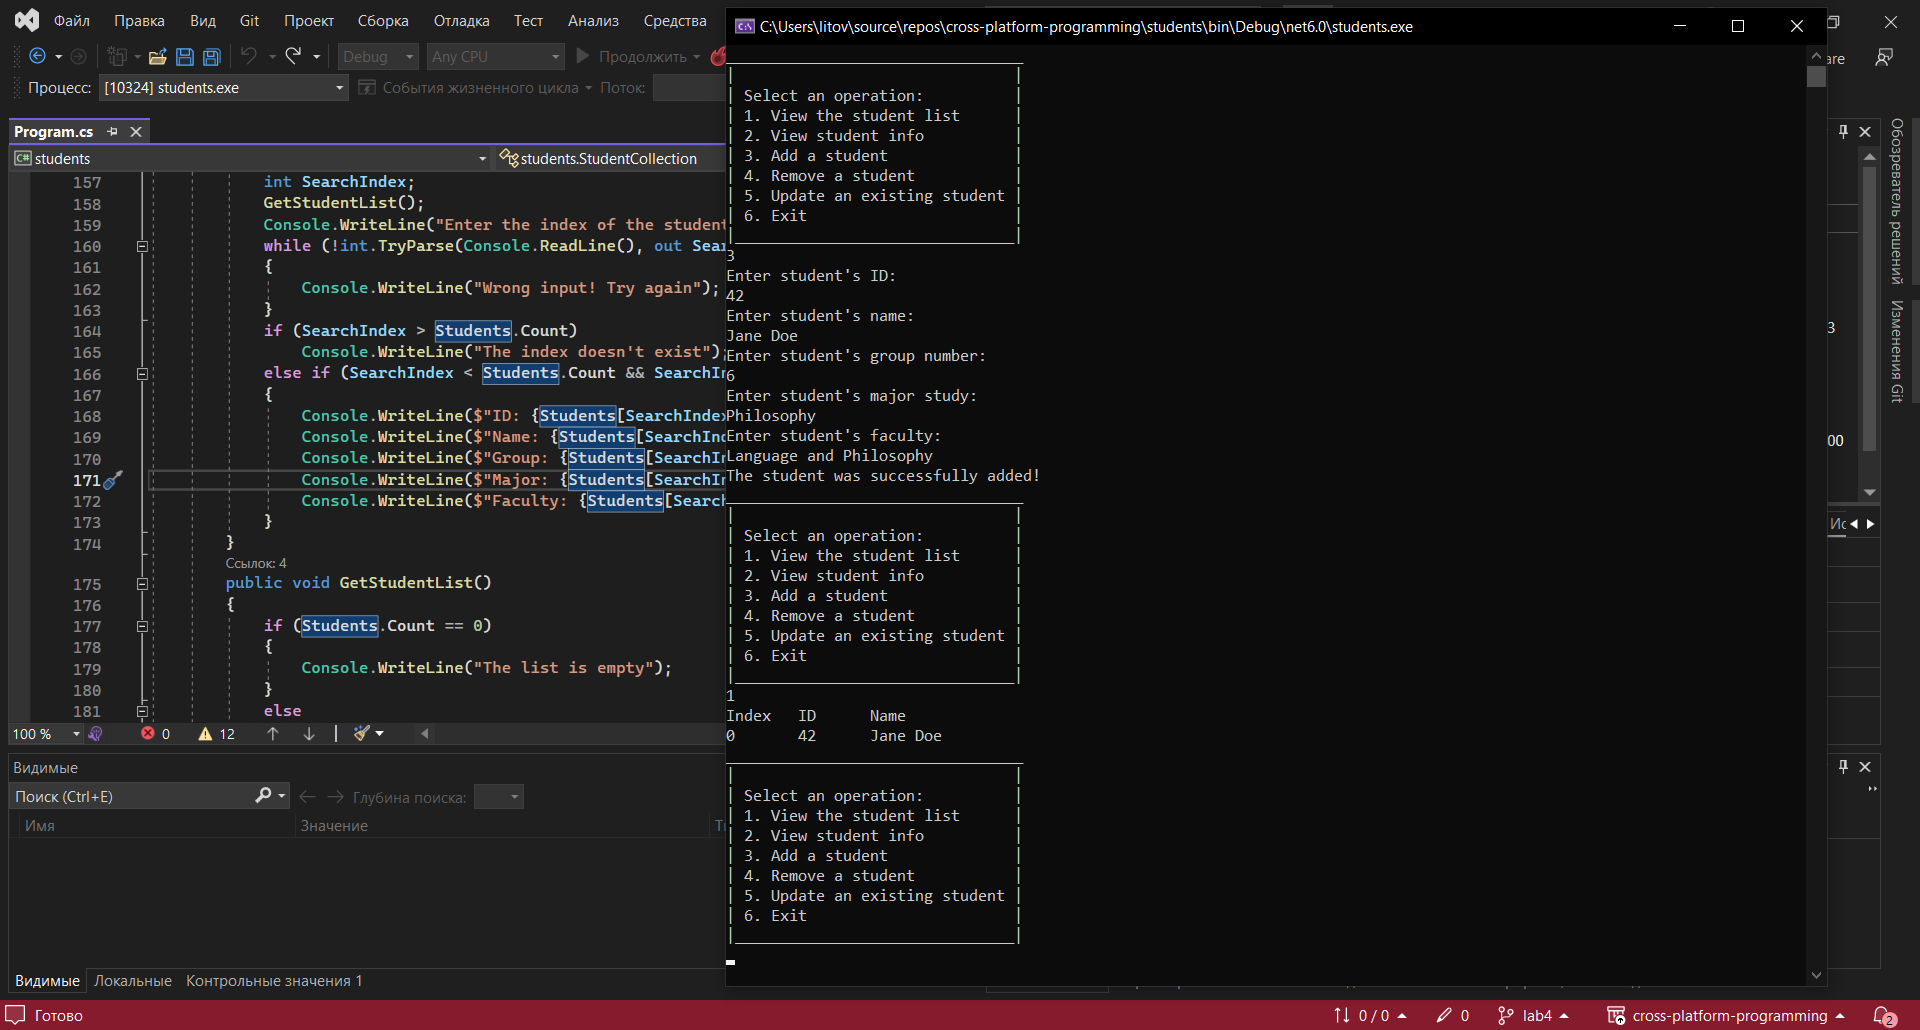
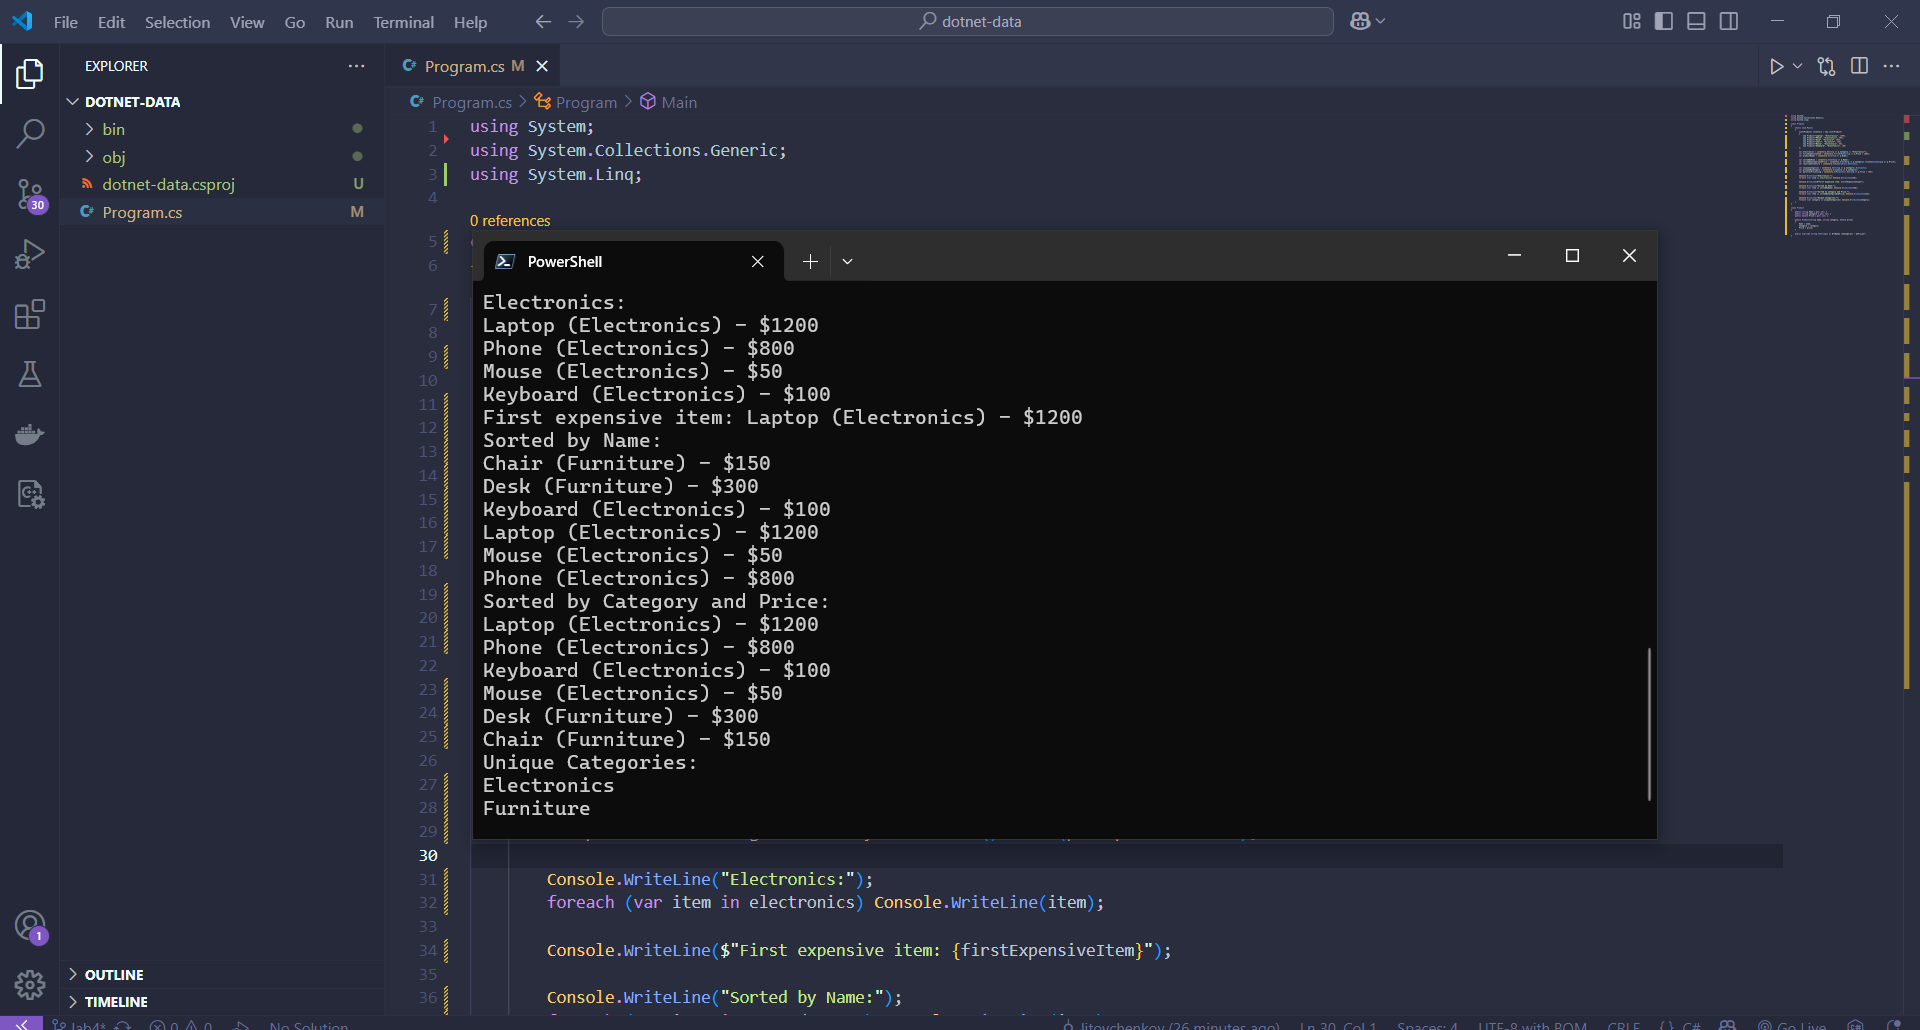
lab5

diff --git a/Program.cs b/Program.cs
@@ -1,257 +1,61 @@
 using System;
-using System.Collections;
 using System.Collections.Generic;
+using System.Linq;
 
-namespace students
+class Program
 {
-    public class StudentCollection
+    static void Main()
     {
-        class Student
+        List<Product> inventory = new List<Product>
         {
-            public int StudentID { get; set; }
-            public string StudentName { get; set; }
-            public int StudentGroup { get; set; }
-            public string StudentMajor { get; set; }
-            public string StudentFaculty { get; set; }
-            public Student()
-            {
-                StudentID = 0;
-                StudentName = string.Empty;
-                StudentGroup = 0;
-                StudentMajor = string.Empty;
-                StudentFaculty = string.Empty;
-            }
-        }
+            new Product("Laptop", "Electronics", 1200),
+            new Product("Phone", "Electronics", 800),
+            new Product("Desk", "Furniture", 300),
+            new Product("Chair", "Furniture", 150),
+            new Product("Mouse", "Electronics", 50),
+            new Product("Keyboard", "Electronics", 100)
+        };
 
-        private List<Student> Students = new List<Student>();
+        var electronics = inventory.Where(p => p.Category == "Electronics");
+        var firstExpensiveItem = inventory.FirstOrDefault(p => p.Price > 1000);
+        var productNames = inventory.Select(p => p.Name);
 
-        public void AddStudent()
-        {
-            int InputID = default,
-                InputGroup = default;
-            string InputName = string.Empty,
-                   InputMajor = string.Empty,
-                   InputFaculty = string.Empty;
-            Console.WriteLine("Enter student's ID: ");
-            while (!int.TryParse(Console.ReadLine(), out InputID))
-            {
-                Console.WriteLine("Wrong input! Try again");
-            }
-            Console.WriteLine("Enter student's name: ");
-            InputName = Console.ReadLine();
-            Console.WriteLine("Enter student's group number: ");
-            while (!int.TryParse(Console.ReadLine(), out InputGroup))
-            {
-                Console.WriteLine("Wrong input! Try again");
-            }
-            Console.WriteLine("Enter student's major study: ");
-            InputMajor = Console.ReadLine();
-            Console.WriteLine("Enter student's faculty: ");
-            InputFaculty = Console.ReadLine();
+        var sortedByName = inventory.OrderBy(p => p.Name);
+        var sortedByCategoryAndPrice = inventory.OrderBy(p => p.Category).ThenByDescending(p => p.Price);
+        var reversedInventory = inventory.AsEnumerable().Reverse();
 
-            Students.Add(new Student()
-            {
-                StudentID = InputID,
-                StudentName = InputName,
-                StudentGroup = InputGroup,
-                StudentMajor = InputMajor,
-                StudentFaculty = InputFaculty
-            });
-            Console.WriteLine("The student was successfully added!");
-        }
-        public void RemoveStudent()
-        {
-            int SearchIndex;
-            GetStudentList();
-            Console.WriteLine("Enter the index of the student you want to remove: ");
-            while (!int.TryParse(Console.ReadLine(), out SearchIndex))
-            {
-                Console.WriteLine("Wrong input! Try again");
-            }
-            if (SearchIndex > Students.Count)
-                Console.WriteLine("The index doesn't exist");
-            else if (SearchIndex < Students.Count && SearchIndex >= 0)
-            {
-                Students.RemoveAt(SearchIndex);
-                Console.WriteLine("The student was successfully removed!");
-            }
-        }
-        public void UpdateStudent()
-        {
-            int SearchIndex,
-                InputID = default,
-                InputGroup = default;
-            string InputName = string.Empty,
-                   InputMajor = string.Empty,
-                   InputFaculty = string.Empty;
+        var uniqueCategories = inventory.Select(p => p.Category).Distinct();
+        var groupedByCategory = inventory.GroupBy(p => p.Category);
+        var parallelProcessing = inventory.AsParallel().Where(p => p.Price > 100);
 
-            GetStudentList();
-            Console.WriteLine("Enter the index of the student you want to update: ");
-            while (!int.TryParse(Console.ReadLine(), out SearchIndex))
-            {
-                Console.WriteLine("Wrong input! Try again");
-            }
-            if (SearchIndex > Students.Count)
-                Console.WriteLine("The index doesn't exist");
-            else if (SearchIndex < Students.Count && SearchIndex >= 0)
-            {
-                int MenuOption;
-                Console.WriteLine("Select an item to change:");
-                Console.WriteLine("1. Student's ID");
-                Console.WriteLine("2. Student's name");
-                Console.WriteLine("3. Student's group");
-                Console.WriteLine("4. Student's major study");
-                Console.WriteLine("5. Student's group");
-                Console.WriteLine("6. Return to main menu");
-                while (!int.TryParse(Console.ReadLine(), out MenuOption))
-                {
-                    Console.WriteLine("Wrong input!");
-                }
-                switch (MenuOption)
-                {
-                    case 1:
-                        Console.WriteLine("Enter student's ID: ");
-                        while (!int.TryParse(Console.ReadLine(), out InputID))
-                        {
-                            Console.WriteLine("Wrong input! Try again");
-                        }
-                        Students[SearchIndex].StudentID = InputID;
-                        Console.WriteLine("The student's data was successfully updated!");
-                        break;
-                    case 2:
-                        Console.WriteLine("Enter student's name: ");
-                        InputName = Console.ReadLine();
-                        Students[SearchIndex].StudentName = InputName;
-                        Console.WriteLine("The student's data was successfully updated!");
-                        break;
-                    case 3:
-                        Console.WriteLine("Enter student's group number: ");
-                        while (!int.TryParse(Console.ReadLine(), out InputGroup))
-                        {
-                            Console.WriteLine("Wrong input! Try again");
-                        }
-                        Students[SearchIndex].StudentGroup = InputGroup;
-                        Console.WriteLine("The student's data was successfully updated!");
-                        break;
-                    case 4:
-                        Console.WriteLine("Enter student's major study: ");
-                        InputMajor = Console.ReadLine();
-                        Students[SearchIndex].StudentMajor = InputMajor;
-                        Console.WriteLine("The student's data was successfully updated!");
-                        break;
-                    case 5:
-                        Console.WriteLine("Enter student's faculty: ");
-                        InputFaculty = Console.ReadLine();
-                        Students[SearchIndex].StudentFaculty = InputFaculty;
-                        Console.WriteLine("The student's data was successfully updated!");
-                        break;
-                    case 6:
-                        break;
-                    default:
-                        break;
-                }
-            }
-        }
-        public void GetStudentData()
-        {
-            int SearchIndex;
-            GetStudentList();
-            Console.WriteLine("Enter the index of the student you want to see: ");
-            while (!int.TryParse(Console.ReadLine(), out SearchIndex))
-            {
-                Console.WriteLine("Wrong input! Try again");
-            }
-            if (SearchIndex > Students.Count)
-                Console.WriteLine("The index doesn't exist");
-            else if (SearchIndex < Students.Count && SearchIndex >= 0)
-            {
-                Console.WriteLine($"ID: {Students[SearchIndex].StudentID}");
-                Console.WriteLine($"Name: {Students[SearchIndex].StudentName}");
-                Console.WriteLine($"Group: {Students[SearchIndex].StudentGroup}");
-                Console.WriteLine($"Major: {Students[SearchIndex].StudentMajor}");
-                Console.WriteLine($"Faculty: {Students[SearchIndex].StudentFaculty}");
-            }
-        }
-        public void GetStudentList()
-        {
-            if (Students.Count == 0)
-            {
-                Console.WriteLine("The list is empty");
-            }
-            else
-            {
-                Console.WriteLine("Index\tID\tName");
-                for (int i = 0; i < Students.Count; i++)
-                {
-                    Console.WriteLine($"{i}\t{Students[i].StudentID}\t{Students[i].StudentName}");
-                }
-            }
-        }
+        Console.WriteLine("Electronics:");
+        foreach (var item in electronics) Console.WriteLine(item);
+
+        Console.WriteLine($"First expensive item: {firstExpensiveItem}");
+
+        Console.WriteLine("Sorted by Name:");
+        foreach (var item in sortedByName) Console.WriteLine(item);
+
+        Console.WriteLine("Sorted by Category and Price:");
+        foreach (var item in sortedByCategoryAndPrice) Console.WriteLine(item);
+
+        Console.WriteLine("Unique Categories:");
+        foreach (var category in uniqueCategories) Console.WriteLine(category);
+    }
+}
+
+class Product
+{
+    public string Name { get; set; }
+    public string Category { get; set; }
+    public double Price { get; set; }
+
+    public Product(string name, string category, double price)
+    {
+        Name = name;
+        Category = category;
+        Price = price;
     }
 
-    internal class Program
-    {
-        enum MenuOptions : byte
-        {
-            View = 1,
-            ViewOne,
-            Add,
-            Remove,
-            Edit,
-            Exit,
-        }
-
-        static StudentCollection StudentList = new StudentCollection();
-
-        static void Menu()
-        {
-            Console.WriteLine("_________________________________");
-            Console.WriteLine("|                               |");
-            Console.WriteLine("| Select an operation:          |");
-            Console.WriteLine("| 1. View the student list      |");
-            Console.WriteLine("| 2. View student info          |");
-            Console.WriteLine("| 3. Add a student              |");
-            Console.WriteLine("| 4. Remove a student           |");
-            Console.WriteLine("| 5. Update an existing student |");
-            Console.WriteLine("| 6. Exit                       |");
-            Console.WriteLine("|_______________________________|");
-
-            Byte MenuOption;
-            while (!Byte.TryParse(Console.ReadLine(), out MenuOption))
-            {
-                Console.WriteLine("Wrong input!");
-            }
-            MenuOptions SelectedOption = (MenuOptions)MenuOption;
-            switch (SelectedOption)
-            {
-                case MenuOptions.View:
-                    StudentList.GetStudentList();
-                    break;
-                case MenuOptions.ViewOne:
-                    StudentList.GetStudentData();
-                    break;
-                case MenuOptions.Add:
-                    StudentList.AddStudent();
-                    break;
-                case MenuOptions.Remove:
-                    StudentList.RemoveStudent();
-                    break;
-                case MenuOptions.Edit:
-                    StudentList.UpdateStudent();
-                    break;
-                case MenuOptions.Exit:
-                    Environment.Exit(0);
-                    break;
-                default:
-                    break;
-            }
-        }
-        static void Main(string[] args)
-        {
-            while (true)
-            {
-                Menu();
-            }
-        }
-    }
+    public override string ToString() => $"{Name} ({Category}) - ${Price}";
 }
